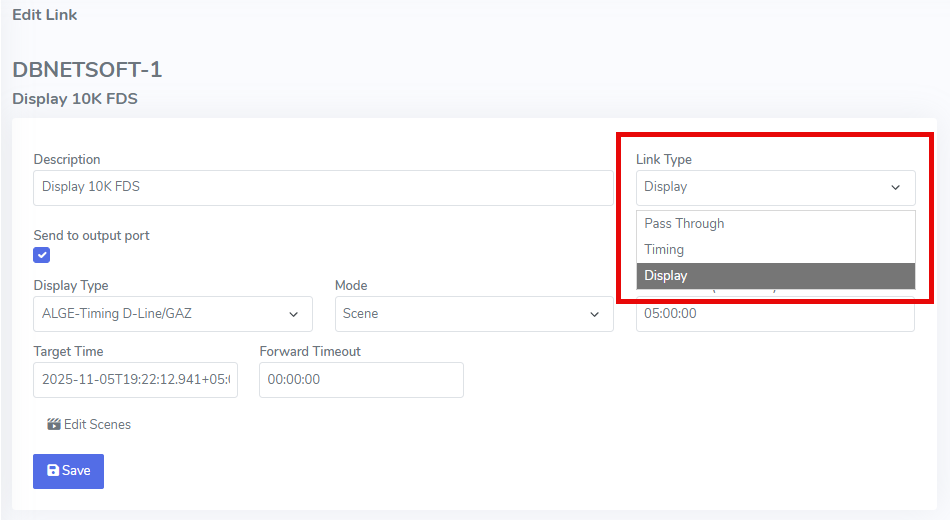
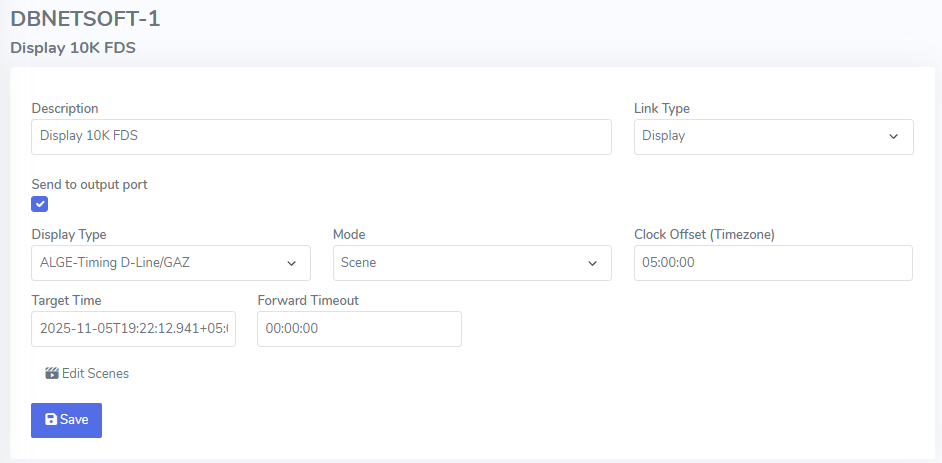
GITBOOK-44: No subject

diff --git a/SUMMARY.md b/SUMMARY.md
@@ -7,26 +7,25 @@
     * [Teltonika TRB142/RUT956](readme/hardware/teltonika-trb142-rut956/README.md)
       * [Configuration](readme/hardware/teltonika-trb142-rut956/configuration.md)
       * [Wiring/Pinout](readme/hardware/teltonika-trb142-rut956/wiring-pinout.md)
-* [Configuration](configuration/README.md)
+* [Links](configuration/README.md)
+  * [Settings](configuration/settings.md)
   * [Operating Modes](configuration/operating-modes/README.md)
     * [Display](configuration/operating-modes/display/README.md)
       * [Connectivity](configuration/operating-modes/display/connectivity/README.md)
         * [Android App](configuration/operating-modes/display/connectivity/android-app.md)
         * [Mobile RS232-Router](configuration/operating-modes/display/connectivity/mobile-rs232-router.md)
         * [REST API](configuration/operating-modes/display/connectivity/rest-api.md)
-      * [Link Scripting](configuration/operating-modes/display/link-scripting.md)
+      * [Live](configuration/operating-modes/display/live.md)
+      * [Scene Scripts](configuration/operating-modes/display/scripting/README.md)
+        * [Types](configuration/operating-modes/display/scripting/types.md)
+        * [Functions](configuration/operating-modes/display/scripting/syntax.md)
+        * [Variables](configuration/operating-modes/display/scripting/variables.md)
+        * [Examples](configuration/operating-modes/display/scripting/examples/README.md)
+          * [ALGE-Timing D-Line/GAZ](configuration/operating-modes/display/scripting/examples/alge-timing-d-line-gaz.md)
+          * [FDS MLED](configuration/operating-modes/display/scripting/examples/fds-mled.md)
+          * [Microgate Microtab](configuration/operating-modes/display/scripting/examples/microgate-microtab.md)
     * [Pass Through](configuration/operating-modes/pass-through.md)
     * [Timing](configuration/operating-modes/timing.md)
-* [Operation](operation/README.md)
-  * [Live](operation/live.md)
-* [Scene Scripts](scripting/README.md)
-  * [Types](scripting/types.md)
-  * [Functions](scripting/syntax.md)
-  * [Variables](scripting/variables.md)
-  * [Examples](scripting/examples/README.md)
-    * [ALGE-Timing D-Line/GAZ](scripting/examples/alge-timing-d-line-gaz.md)
-    * [FDS MLED](scripting/examples/fds-mled.md)
-    * [Microgate Microtab](scripting/examples/microgate-microtab.md)
 * [Account Scripts](account-scripts/README.md)
   * [RACE RESULT 12 Example](account-scripts/race-result-12-example.md)
 * [App](app/README.md)

diff --git a/readme/hardware/teltonika-trb142-rut956/configuration.md b/readme/hardware/teltonika-trb142-rut956/configuration.md
@@ -16,12 +16,12 @@ There you need to define a configurationb as follows:&#x20;
 
 Under _General Tab_ set the following:
 
-|                     |                                                                                                                                                           |
-| ------------------- | --------------------------------------------------------------------------------------------------------------------------------------------------------- |
-| Mode                | Client                                                                                                                                                    |
-| Protocol            | TCP                                                                                                                                                       |
-| Destination Address | www.remoteredirect.com                                                                                                                                    |
-| Destination Port    | <p>Depending on your link, use the port number from Output side<br><img src="../../../.gitbook/assets/image (1) (1).png" alt="" data-size="original"></p> |
+|                     |                                                                                                                                                               |
+| ------------------- | ------------------------------------------------------------------------------------------------------------------------------------------------------------- |
+| Mode                | Client                                                                                                                                                        |
+| Protocol            | TCP                                                                                                                                                           |
+| Destination Address | www.remoteredirect.com                                                                                                                                        |
+| Destination Port    | <p>Depending on your link, use the port number from Output side<br><img src="../../../.gitbook/assets/image (1) (1) (1).png" alt="" data-size="original"></p> |
 
 Under _Advanced Tab_ set the following:
 

diff --git a/configuration/operating-modes/display/scripting/variables.md b/configuration/operating-modes/display/scripting/variables.md
@@ -1,0 +1,17 @@
+# Variables
+
+## Model
+
+The variable `Model` is available in every scene script and has the following properties.&#x20;
+
+In Script: `Model.`_`NameOfVariable`_
+
+<table><thead><tr><th>Name</th><th width="165">Type</th><th>Description</th></tr></thead><tbody><tr><td><code>Model.Clock</code></td><td>DateTimeOffset</td><td>Current time of day including optional time offset  set on link</td></tr><tr><td><code>Model.UtClock</code></td><td>DateTimeOffset</td><td>Current time in UTC</td></tr><tr><td><code>Model.ReferenceTime</code></td><td>DateTimeOffset?</td><td>Reference time set on link. Usually this is the start time of day</td></tr><tr><td><code>Model.HasRerenceTime</code></td><td>Bool</td><td>Checks for a rference time is set</td></tr><tr><td><code>Model.Countdown</code></td><td>TimeSpan?</td><td>Current countdown if reference time is set reference time is in the future</td></tr><tr><td><code>Model.IsCountdown</code></td><td>Bool</td><td>Checks for is before reference time</td></tr><tr><td><code>Model.Runtime</code></td><td>TimeSpan?</td><td>Current runtime if reference time is set and reference time is in the past</td></tr><tr><td><code>Model.IsRuntime</code></td><td>Bool</td><td>Checks for is after reference time</td></tr></tbody></table>
+
+## Model.Scene
+
+This variable holds information on the currently selected scene.
+
+In Script: `Model.Scene.`_`NameOfVariable`_
+
+<table><thead><tr><th>Name</th><th width="165">Type</th><th>Description</th></tr></thead><tbody><tr><td><code>Model.Scene.UserDesxcription</code></td><td>String?</td><td>User given name of the scene</td></tr><tr><td><code>Model.Scene.DisplayTargetTime</code></td><td>DateTimeOffset</td><td>Target timeo f the scene only</td></tr></tbody></table>

diff --git a/configuration/settings.md b/configuration/settings.md
@@ -1,0 +1,7 @@
+# Settings
+
+<figure><img src="../.gitbook/assets/image (1).png" alt=""><figcaption></figcaption></figure>
+
+<table><thead><tr><th width="188"></th><th></th></tr></thead><tbody><tr><td>Description</td><td><p>Optional text that identifies the link to yourself (</p><p>Good practice is to give it the name of the remote location, e.g. 5k Split)</p></td></tr><tr><td>Link Type</td><td><p>Defines the <a href="operating-modes/">Operating Mode</a> of the link:<br></p><ul><li><a href="operating-modes/display/">Display </a>- sending display data from one location to a remote display board from RemoteRedirect webservice to a remote display board</li><li><a href="operating-modes/pass-through.md">Pass Through</a> - send data from one location to another location</li><li><a href="operating-modes/timing.md">Timing </a>- send timing data from one location to another location</li></ul></td></tr><tr><td>Send to output port</td><td>Only sends out data when is enabled</td></tr></tbody></table>
+
+Further settings appear when changing the _Link Type_ and click _Save._

diff --git a/configuration/operating-modes/display/README.md b/configuration/operating-modes/display/README.md
@@ -7,5 +7,6 @@ description: >-
 
 # Display
 
-<figure><img src="../../../.gitbook/assets/image (7).png" alt="" width="375"><figcaption></figcaption></figure>
+<figure><img src="../../../.gitbook/assets/image.png" alt=""><figcaption></figcaption></figure>
 
+<table><thead><tr><th width="145"></th><th></th></tr></thead><tbody><tr><td>Display Type</td><td>Brand and make of the display type (not used at the moment)</td></tr><tr><td>Mode</td><td>Idle - do nothing<br>Scene - Send out link script output</td></tr><tr><td>Clock Offset</td><td>The offset to UTC time to allow for clocks in the current time zone</td></tr><tr><td>Target Time</td><td>Referecne or start time to be used for link scripts (usually only be configurd in <a href="live.md">Live</a> view)</td></tr><tr><td>Forward Timeout</td><td>When sending data from one location to another, sometimes the connection is severed to the input side. After a timeout, the output side is sent the current link script to not show outdated/old data</td></tr></tbody></table>

diff --git a/configuration/operating-modes/display/scripting/syntax.md b/configuration/operating-modes/display/scripting/syntax.md
@@ -6,11 +6,11 @@ A lot of basic functions are provided out-of-the-box by Scriban. You can find mo
 
 ### Standard Custom Functions <a href="#custom-functions" id="custom-functions"></a>
 
-In our [Knowledge Base](https://app.gitbook.com/s/C67Cb6MMW0kgkxqRVkiH/scripting/functions/custom-standard-functions) you'll find an overview over all standard custom functions implement not only in RemoteRedirector but also [RaceResultExchange](https://www.dbnetsoft.com/turnkeysoftware/raceresultexchange/).&#x20;
+In our [Knowledge Base](https://app.gitbook.com/s/C67Cb6MMW0kgkxqRVkiH/scripting/functions/custom-standard-functions) you'll find an overview over all standard custom functions implement not only in RemoteRedirect but also [RaceResultExchange](https://www.dbnetsoft.com/turnkeysoftware/raceresultexchange/).&#x20;
 
 ## Custom Functions
 
-RemoteRedirector provides other custom functions specific to display data.&#x20;
+RemoteRedirect provides other custom functions specific to display data.&#x20;
 
 
 

diff --git a/configuration/operating-modes/display/scripting/README.md b/configuration/operating-modes/display/scripting/README.md
@@ -11,7 +11,7 @@ Scripting is based on the powerful [Scriban scripting language](https://github.c
 * Language Overview: [Here](https://github.com/scriban/scriban/blob/master/doc/language.md)
 * Built-in Functions: [Here](https://github.com/scriban/scriban/blob/master/doc/builtins.md)
 
-Different than stated in the scriban docs, Race Result Exchange is not changing the casing of variables or functions. Even more, you can use `string.ends_with`or `string.EndsWith`, whereas the later is preferred as it means the declaration of the method is not touched.
+Different than stated in the official scriban docs, Remote Redirect is not changing the casing of variables or functions. Even more, you can use `string.ends_with`or `string.EndsWith`, whereas the later is preferred as it means the declaration of the method is not touched.
 
 The following script will output "Hello World":
 

diff --git a/readme/release-notes.md b/readme/release-notes.md
@@ -16,7 +16,7 @@
 
     * Each scene holds it's own script and reference time
 
-    <figure><img src="../.gitbook/assets/image (2) (1).png" alt="" width="375"><figcaption></figcaption></figure>
+    <figure><img src="../.gitbook/assets/image (2) (1) (1).png" alt="" width="375"><figcaption></figcaption></figure>
 * More internal logging
 * Batch link operations
   * Multiple links can be started together
@@ -32,5 +32,5 @@
     * Reference time can be easily copied and pasted via buttons for efficiency
     * A bigger live preview of what is sent out on output port is visible next to script
 
-    <figure><img src="../.gitbook/assets/image (1) (1) (1).png" alt="" width="375"><figcaption></figcaption></figure>
+    <figure><img src="../.gitbook/assets/image (1) (1) (1) (1).png" alt="" width="375"><figcaption></figcaption></figure>
 

diff --git a/configuration/operating-modes/display/scripting/examples/fds-mled.md b/configuration/operating-modes/display/scripting/examples/fds-mled.md
@@ -80,7 +80,7 @@ This script will display two lines of maximum 16 charaters.
 
 This is useful for showing running times for two competitions on two lines (e.g. different starting blocks or men and women starting time delayed). The text to display and the starttime can be entered at the end of the script and are not taken from the link or scene's reference time.&#x20;
 
-<figure><img src="../../.gitbook/assets/image (5).png" alt="" width="300"><figcaption></figcaption></figure>
+<figure><img src="../../../../../.gitbook/assets/image (5).png" alt="" width="300"><figcaption></figcaption></figure>
 
 {% hint style="info" %}
 FDS MLED line nr 1 equals to one row with 8 characters, line nr 2 and 3 are the top and bottom row with two rows each 16 characters wide.&#x20;

diff --git a/general/wording.md b/general/wording.md
@@ -4,5 +4,5 @@
 * A **link** is a pair of input and output ports that allows exchangingof data (or only the output side can be used).
 * An **account** can manage one to many links and is associated with one to many user accounts.
 * Links can be shared between one and many accounts.
-* A **link script** is a piece of Scriban script that can be defined per scene and defines what data is output to the display board
+* A **scene script** is a piece of Scriban script that can be defined per scene and defines what data is output to the display board
 * An **account script** is a piece of javascript code that can query external APIs and make the data available in link scripts.&#x20;

diff --git a/configuration/operating-modes/README.md b/configuration/operating-modes/README.md
@@ -2,11 +2,7 @@
 
 The operating mode of a link can be configured in the Edit window.
 
-<figure><img src="../../.gitbook/assets/image.png" alt=""><figcaption></figcaption></figure>
+<figure><img src="../../.gitbook/assets/image (2).png" alt=""><figcaption></figcaption></figure>
 
-_Link Type_ options are
 
-* [Display ](display/)- sending display data from one location to a remote display board from RemoteRedirect webservice to a remote display board
-* [Pass Through](pass-through.md) - send data from one location to another location
-* [Timing ](timing.md)- send timing data from one location to another location
 

diff --git a/account-scripts/README.md b/account-scripts/README.md
@@ -1,5 +1,5 @@
 # Account Scripts
 
-Scripts are a powerful way to query for external data and make it available as varibales for scene scripts. For instance, one can query a Race Result 12 list and then use the start time accordingly in a scene script.&#x20;
+Account Scripts are a powerful way to query for external data and make it available as varibales for scene scripts. For instance, one can query a Race Result 12 list and then use the start time accordingly in a scene script.&#x20;
 
 Account Scripts are Javascript, not Scriban.
